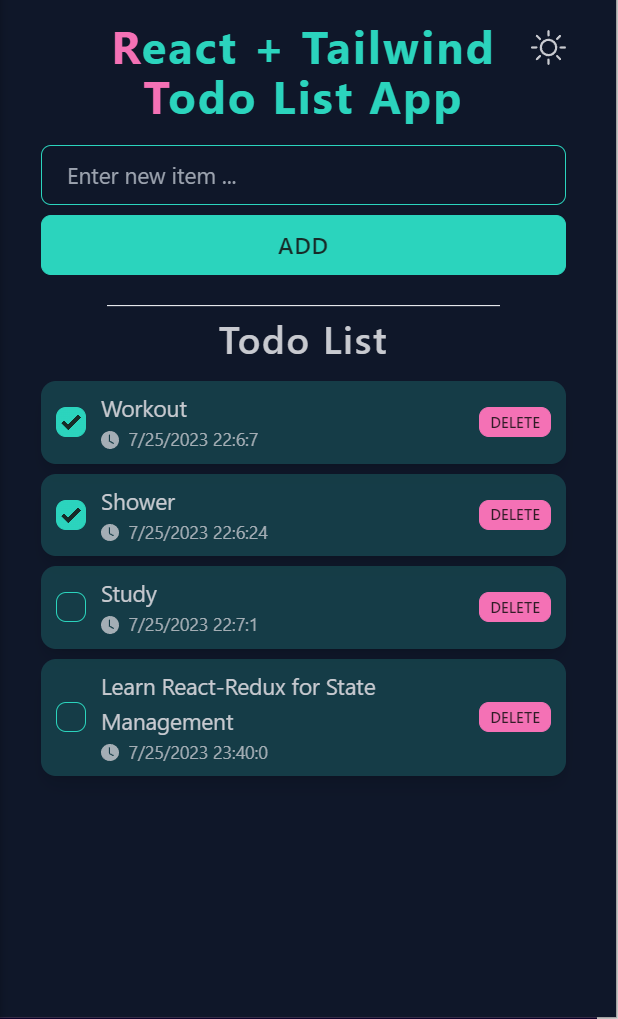
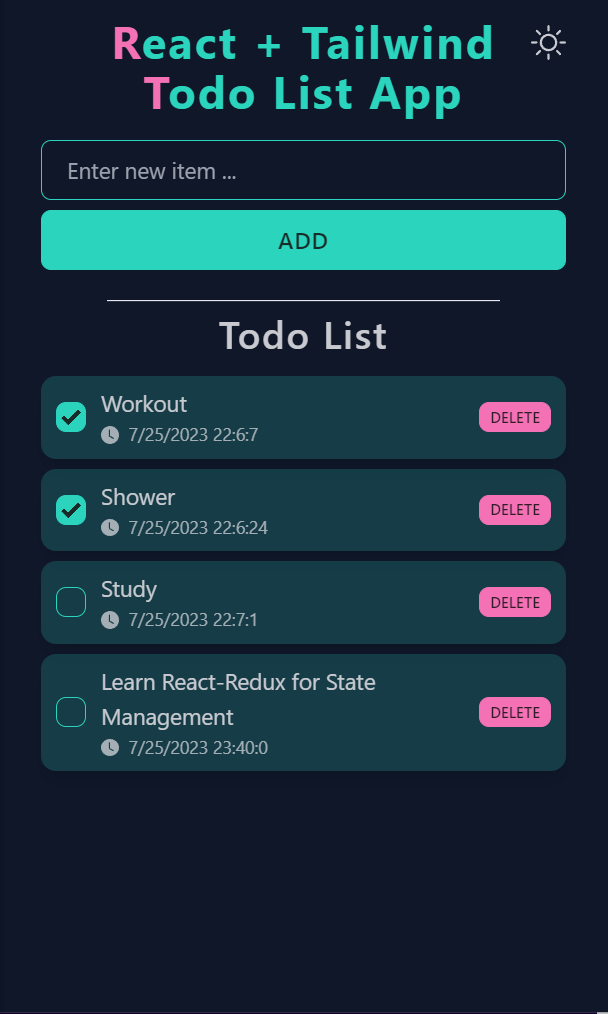
fix readme and theme finalize design

diff --git a/README.md b/README.md
@@ -1,27 +1,11 @@
-# React + TypeScript + Vite
+# React + TypeScript + Vite + Tailwind + DaisyUI
 
-This template provides a minimal setup to get React working in Vite with HMR and some ESLint rules.
+## Todo List Web App
 
-Currently, two official plugins are available:
+Light Theme 
 
-- [@vitejs/plugin-react](https://github.com/vitejs/vite-plugin-react/blob/main/packages/plugin-react/README.md) uses [Babel](https://babeljs.io/) for Fast Refresh
-- [@vitejs/plugin-react-swc](https://github.com/vitejs/vite-plugin-react-swc) uses [SWC](https://swc.rs/) for Fast Refresh
+![Light Theme](https://raw.githubusercontent.com/iamsabet/React-Todo/main/Light.PNG)
 
-## Expanding the ESLint configuration
+Dark Theme
 
-If you are developing a production application, we recommend updating the configuration to enable type aware lint rules:
-
-- Configure the top-level `parserOptions` property like this:
-
-```js
-   parserOptions: {
-    ecmaVersion: 'latest',
-    sourceType: 'module',
-    project: ['./tsconfig.json', './tsconfig.node.json'],
-    tsconfigRootDir: __dirname,
-   },
-```
-
-- Replace `plugin:@typescript-eslint/recommended` to `plugin:@typescript-eslint/recommended-type-checked` or `plugin:@typescript-eslint/strict-type-checked`
-- Optionally add `plugin:@typescript-eslint/stylistic-type-checked`
-- Install [eslint-plugin-react](https://github.com/jsx-eslint/eslint-plugin-react) and add `plugin:react/recommended` & `plugin:react/jsx-runtime` to the `extends` list
+![Light Theme](https://raw.githubusercontent.com/iamsabet/React-Todo/main/Dark.PNG)
